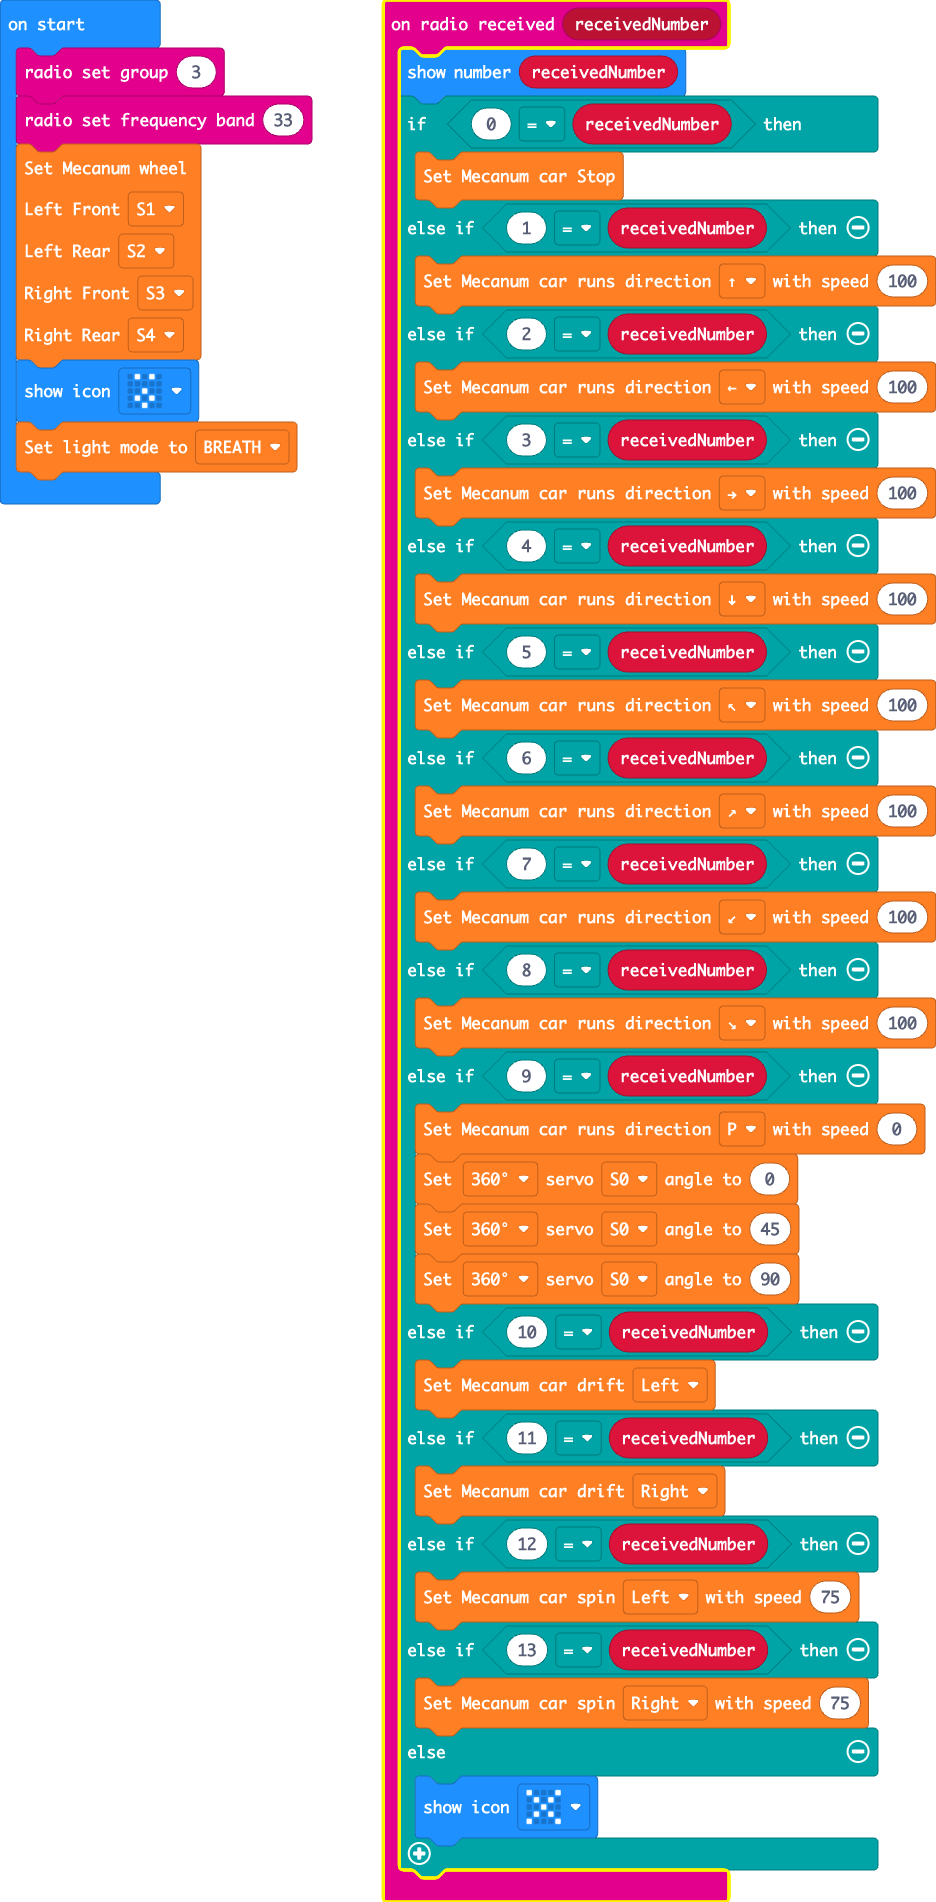
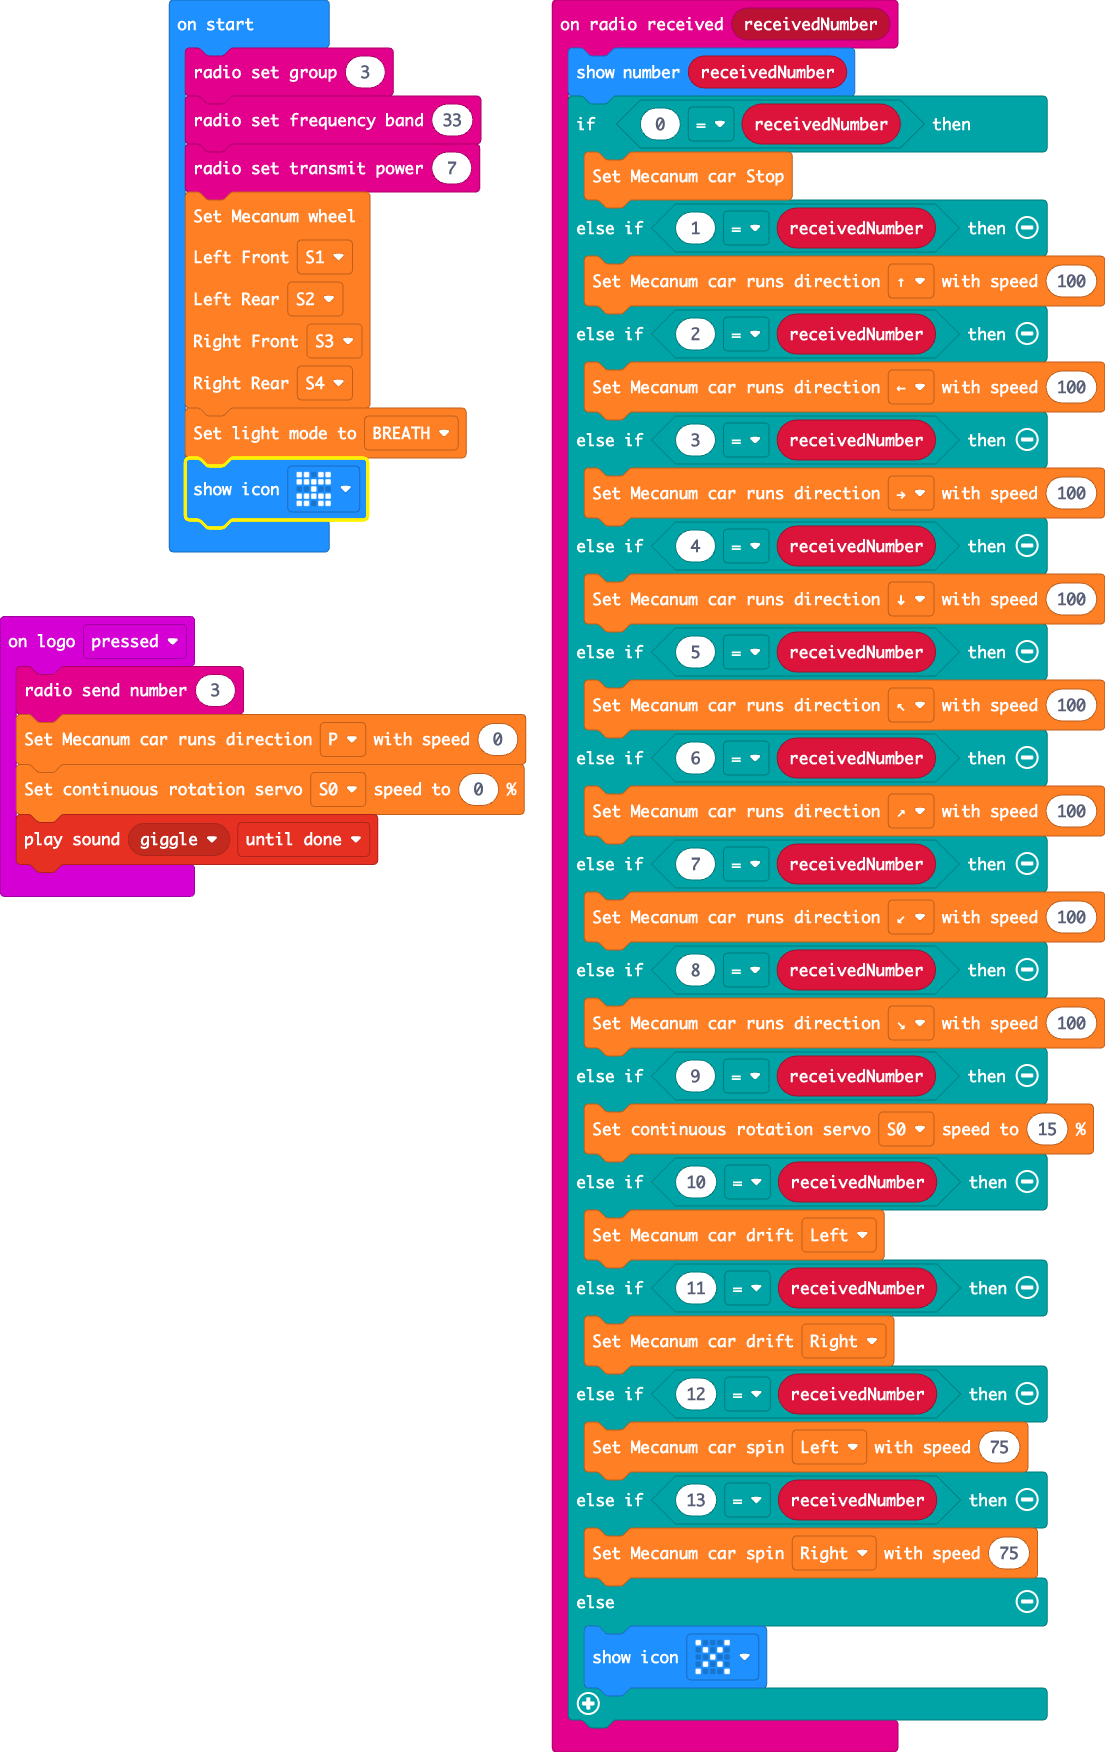
Update main.blocks, main.ts

diff --git a/main.ts b/main.ts
@@ -19,10 +19,7 @@ radio.onReceivedNumber(function (receivedNumber) {
     } else if (8 == receivedNumber) {
         wuKong.mecanumRun(wuKong.RunList.RightRear, 100)
     } else if (9 == receivedNumber) {
-        wuKong.mecanumRun(wuKong.RunList.stop, 0)
-        wuKong.setServoAngle(wuKong.ServoTypeList._360, wuKong.ServoList.S0, 0)
-        wuKong.setServoAngle(wuKong.ServoTypeList._360, wuKong.ServoList.S0, 45)
-        wuKong.setServoAngle(wuKong.ServoTypeList._360, wuKong.ServoList.S0, 90)
+        wuKong.setServoSpeed(wuKong.ServoList.S0, 15)
     } else if (10 == receivedNumber) {
         wuKong.mecanumDrift(wuKong.TurnList.Left)
     } else if (11 == receivedNumber) {
@@ -35,13 +32,20 @@ radio.onReceivedNumber(function (receivedNumber) {
         basic.showIcon(IconNames.No)
     }
 })
+input.onLogoEvent(TouchButtonEvent.Pressed, function () {
+    radio.sendNumber(3)
+    wuKong.mecanumRun(wuKong.RunList.stop, 0)
+    wuKong.setServoSpeed(wuKong.ServoList.S0, 0)
+    music.playSoundEffect(music.builtinSoundEffect(soundExpression.giggle), SoundExpressionPlayMode.UntilDone)
+})
 radio.setGroup(3)
 radio.setFrequencyBand(33)
+radio.setTransmitPower(7)
 wuKong.mecanumWheel(
 wuKong.ServoList.S1,
 wuKong.ServoList.S2,
 wuKong.ServoList.S3,
 wuKong.ServoList.S4
 )
-basic.showIcon(IconNames.Surprised)
 wuKong.setLightMode(wuKong.LightMode.BREATH)
+basic.showIcon(IconNames.Butterfly)
